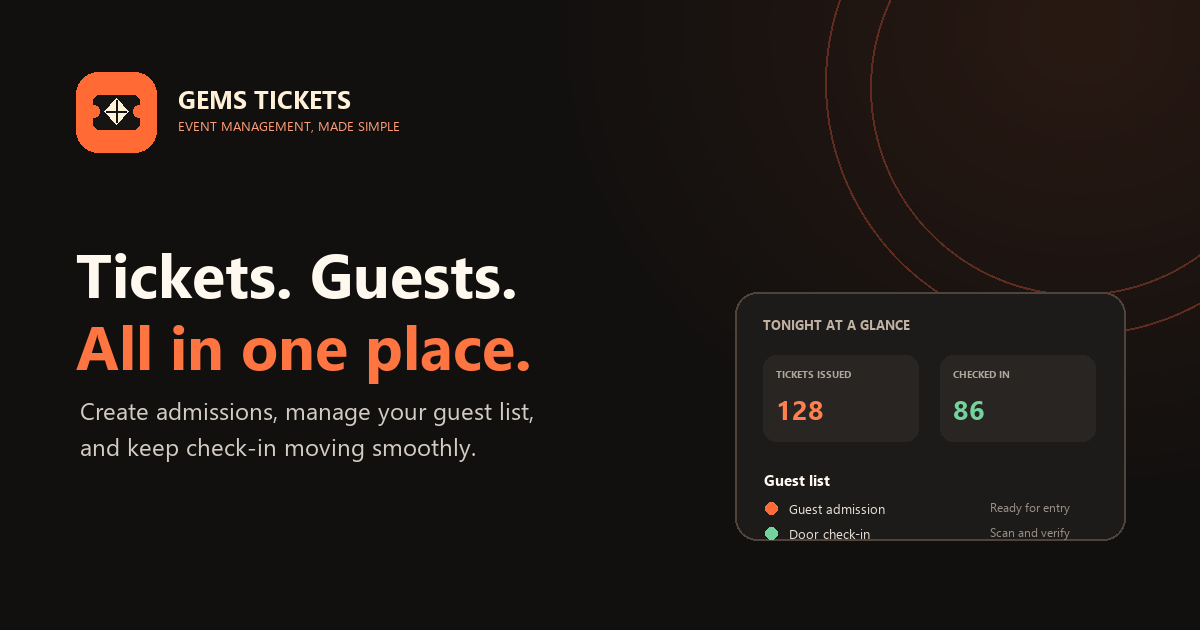
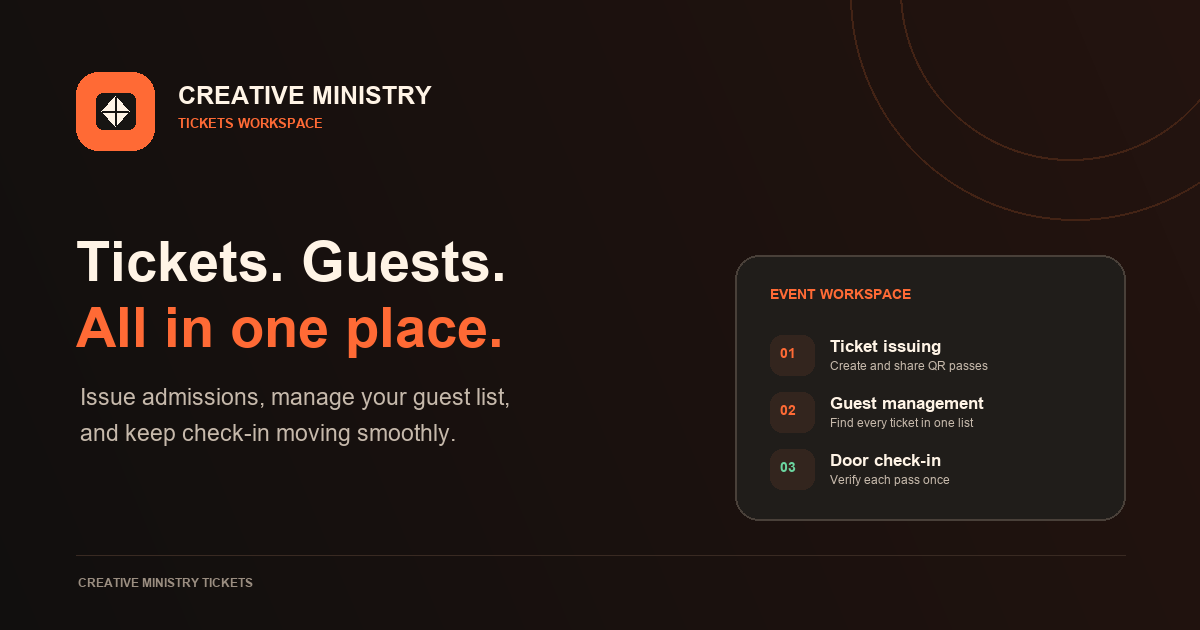
new look

diff --git a/src/components/checkin/CheckInPage.jsx b/src/components/checkin/CheckInPage.jsx
@@ -22,7 +22,7 @@ export default function CheckInPage({ tickets, result, setResult, checkIn }) {
   return <>
     <SectionTitle eyebrow="Front of house" title="Door check-in" description="Verify a guest by ticket ID or use the camera to scan their QR. Each ticket can only be admitted once." actions={<span className="inline-flex items-center gap-2 rounded-full border border-emerald-300/15 bg-emerald-300/[.05] px-3 py-2 text-[10px] text-emerald-200"><span className="h-1.5 w-1.5 animate-pulse rounded-full bg-emerald-300"/> Ready for guests</span>}/>
     <div className="grid gap-5 xl:grid-cols-[1.1fr_.9fr]">
-      <section className="overflow-hidden rounded-2xl border border-white/[.08] bg-panel"><div className="border-b border-white/[.06] px-5 py-4"><h2 className="text-sm font-bold text-white">Find a guest</h2><p className="mt-1 text-[10px] text-white/35">Type the printed ticket ID or scan its QR code.</p></div><div className="p-5 sm:p-7"><form onSubmit={submit}><label htmlFor="ticket-search" className="mb-2 block text-[10px] font-semibold text-white/50">Ticket ID or QR value</label><div className="flex gap-2"><div className="flex h-12 min-w-0 flex-1 items-center gap-3 rounded-xl border border-white/[.1] bg-black/20 px-3.5 focus-within:border-ember/60"><Search size={16} className="shrink-0 text-white/30"/><input id="ticket-search" value={scanValue} onChange={(event) => setScanValue(event.target.value)} placeholder="e.g. GEMS008" className="min-w-0 flex-1 bg-transparent font-mono text-sm text-white outline-none placeholder:font-sans placeholder:text-xs placeholder:text-white/25"/></div><button className="rounded-xl bg-ember px-5 text-xs font-bold text-ink hover:bg-[#ff7748]">Verify</button></div></form>
+      <section className="overflow-hidden rounded-2xl border border-white/[.08] bg-panel"><div className="border-b border-white/[.06] px-5 py-4"><h2 className="text-sm font-bold text-white">Find a guest</h2><p className="mt-1 text-[10px] text-white/35">Type the printed ticket ID or scan its QR code.</p></div><div className="p-5 sm:p-7"><form onSubmit={submit}><label htmlFor="ticket-search" className="mb-2 block text-[10px] font-semibold text-white/50">Ticket ID or QR value</label><div className="flex gap-2"><div className="flex h-12 min-w-0 flex-1 items-center gap-3 rounded-xl border border-white/[.1] bg-black/20 px-3.5 focus-within:border-ember/60"><Search size={16} className="shrink-0 text-white/30"/><input id="ticket-search" value={scanValue} onChange={(event) => setScanValue(event.target.value)} placeholder="e.g. KIF008" className="min-w-0 flex-1 bg-transparent font-mono text-sm text-white outline-none placeholder:font-sans placeholder:text-xs placeholder:text-white/25"/></div><button className="rounded-xl bg-ember px-5 text-xs font-bold text-ink hover:bg-[#ff7748]">Verify</button></div></form>
       <CameraScanner onDecoded={findTicket}/>
       {result ? <div className={`mt-5 rounded-xl border p-4 ${result.ok ? 'border-emerald-300/20 bg-emerald-300/[.06]' : 'border-red-300/20 bg-red-400/[.06]'}`}><div className="flex items-start gap-3">{result.ok ? <CheckCircle2 size={19} className="mt-0.5 text-emerald-300"/> : <X size={19} className="mt-0.5 text-red-300"/>}<div className="flex-1"><div className={`text-xs font-bold ${result.ok ? 'text-emerald-200' : 'text-red-200'}`}>{result.ok ? 'ACCESS GRANTED' : 'CHECK-IN FAILED'}</div><p className="mt-1 text-[11px] text-white/55">{result.ticket ? `${result.ticket.fullName} · ${result.ticket.ticketId} — ` : ''}{result.message}</p></div><button onClick={() => { setResult(null); setScanValue(''); }} aria-label="Dismiss result" className="text-white/35 hover:text-white"><X size={15}/></button></div></div> : <div className="mt-6 rounded-xl border border-dashed border-white/[.12] bg-black/10 px-4 py-8 text-center"><span className="mx-auto grid h-12 w-12 place-items-center rounded-2xl bg-white/[.045] text-ember"><TicketCheck size={22}/></span><div className="mt-3 text-xs font-semibold text-white/70">Ready for the next guest</div><p className="mx-auto mt-1.5 max-w-xs text-[10px] leading-relaxed text-white/35">An admission result will appear here after a scan.</p></div>}</div><div className="flex justify-between border-t border-white/[.06] px-5 py-3 text-[10px] text-white/35"><span>Checked in for this event</span><span className="font-mono text-emerald-300">{tickets.filter((ticket) => ticket.status === 'Checked in').length}</span></div></section>
       <div className="space-y-5"><section className="rounded-2xl border border-white/[.08] bg-panel p-5"><div className="flex items-center justify-between"><div><h2 className="text-sm font-bold text-white">Quick admit</h2><p className="mt-1 text-[10px] text-white/35">Select a guest to check them in.</p></div><span className="rounded-md bg-gold/[.1] px-2 py-1 text-[9px] font-bold text-gold">{tickets.filter((ticket) => ticket.status === 'Not checked in' && ticket.payment_status === 'confirmed').length} WAITING</span></div><div className="mt-4 space-y-2">{tickets.filter((ticket) => ticket.status === 'Not checked in' && ticket.payment_status === 'confirmed').slice(0, 5).map((ticket, index) => <div key={ticket.id} className="flex items-center gap-3 rounded-xl border border-white/[.05] px-3 py-2.5"><Avatar name={ticket.fullName} index={index}/><div className="min-w-0 flex-1"><div className="truncate text-[10px] font-semibold text-white/75">{ticket.fullName}</div><div className="mt-0.5 font-mono text-[9px] text-white/30">{ticket.ticketId}</div></div><button onClick={() => checkIn(ticket)} className="rounded-lg border border-white/[.09] px-2.5 py-1.5 text-[9px] font-semibold text-white/60 hover:border-emerald-300/30 hover:text-emerald-200">Admit</button></div>)}</div></section><div className="rounded-2xl border border-ember/15 bg-gradient-to-br from-ember/[.09] to-transparent p-5"><div className="flex items-center gap-2 text-ember"><ShieldCheck size={16}/><span className="text-[10px] font-bold uppercase tracking-[.14em]">One ticket · One entry</span></div><p className="mt-2 text-[11px] leading-relaxed text-white/45">A used ticket cannot be admitted again. If a guest needs help, verify their name with the event team.</p></div></div>
@@ -40,7 +40,7 @@ function CameraScanner({ onDecoded }) {
     let cancelled = false;
     (async () => {
       try {
-        scanner = new Html5Qrcode('gems-qr-reader');
+        scanner = new Html5Qrcode('creative-ministry-qr-reader');
         await scanner.start({ facingMode: 'environment' }, { fps: 10, qrbox: { width: 220, height: 180 } }, async (text) => {
           if (cancelled) return;
           cancelled = true;
@@ -56,5 +56,5 @@ function CameraScanner({ onDecoded }) {
     return () => { cancelled = true; if (scanner?.isScanning) scanner.stop().catch(() => {}); };
   }, [open, onDecoded]);
 
-  return <div className="mt-4"><button type="button" onClick={() => { setMessage(''); setOpen((value) => !value); }} className="inline-flex items-center gap-2 rounded-lg border border-white/[.08] px-3 py-2 text-[10px] font-semibold text-white/55 hover:border-white/20 hover:text-white"><span className="text-ember">▦</span>{open ? 'Close camera' : 'Open camera scanner'}</button>{message && <p className="mt-2 text-[10px] text-gold">{message}</p>}{open && <div id="gems-qr-reader" className="mt-3 max-w-sm overflow-hidden rounded-xl border border-white/10 bg-black/30 [&_button]:m-2 [&_button]:rounded-md [&_button]:bg-ember [&_button]:px-3 [&_button]:py-2 [&_button]:text-xs [&_select]:bg-[#191817] [&_select]:text-white"/>}</div>;
+  return <div className="mt-4"><button type="button" onClick={() => { setMessage(''); setOpen((value) => !value); }} className="inline-flex items-center gap-2 rounded-lg border border-white/[.08] px-3 py-2 text-[10px] font-semibold text-white/55 hover:border-white/20 hover:text-white"><span className="text-ember">▦</span>{open ? 'Close camera' : 'Open camera scanner'}</button>{message && <p className="mt-2 text-[10px] text-gold">{message}</p>}{open && <div id="creative-ministry-qr-reader" className="mt-3 max-w-sm overflow-hidden rounded-xl border border-white/10 bg-black/30 [&_button]:m-2 [&_button]:rounded-md [&_button]:bg-ember [&_button]:px-3 [&_button]:py-2 [&_button]:text-xs [&_select]:bg-[#191817] [&_select]:text-white"/>}</div>;
 }

diff --git a/src/App.jsx b/src/App.jsx
@@ -49,7 +49,7 @@ export default function App() {
   if (!supabaseConfigReady) return <SetupNotice message="Add VITE_SUPABASE_URL and VITE_SUPABASE_PUBLISHABLE_KEY to .env.local, then restart the dev server."/>;
   if (authLoading) return <LoadingScreen label="Connecting to your secure workspace…"/>;
   if (!session) return <AuthPage supabase={supabase}/>;
-  return <Workspace user={session.user} authError={authError} onSignOut={() => supabase.auth.signOut()}/>;
+  return <Workspace user={session.user} authError={authError} onSignOut={() => supabase.auth.signOut({ scope: 'local' })}/>;
 }
 
 function Workspace({ user, authError, onSignOut, preview = false }) {
@@ -80,7 +80,7 @@ function Workspace({ user, authError, onSignOut, preview = false }) {
     const csv = [columns, ...rows].map((row) => row.map((value) => '"' + String(value ?? '').replaceAll('"', '""') + '"').join(',')).join('\r\n');
     const link = document.createElement('a');
     link.href = URL.createObjectURL(new Blob([csv], { type: 'text/csv;charset=utf-8' }));
-    link.download = 'gems-guest-list.csv';
+    link.download = 'creative-ministry-guest-list.csv';
     link.click();
     window.setTimeout(() => URL.revokeObjectURL(link.href), 1000);
   };
@@ -99,7 +99,7 @@ function Workspace({ user, authError, onSignOut, preview = false }) {
           {page === 'tickets' && <GuestsPage event={event} tickets={tickets} loading={loading} onNew={() => setIssueOpen(true)} onTicket={openTicket} onExport={exportCsv} canManageTickets={role === 'owner' || role === 'manager'}/>}
           {page === 'checkin' && <CheckInPage tickets={tickets} result={scanResult} setResult={setScanResult} checkIn={checkIn}/>}
         </div>
-        <footer className="mx-auto flex max-w-[1440px] flex-col gap-2 border-t border-white/[.06] px-4 py-5 text-[10px] text-white/25 sm:flex-row sm:justify-between sm:px-8 lg:px-10"><span>GEMS TICKETS <span className="px-1">·</span> {preview ? "LOCAL PREVIEW · NOT SAVED" : "SECURE EVENT WORKSPACE"}</span><span>{event.name} · {event.venue}</span></footer>
+        <footer className="mx-auto flex max-w-[1440px] flex-col gap-2 border-t border-white/[.06] px-4 py-5 text-[10px] text-white/25 sm:flex-row sm:justify-between sm:px-8 lg:px-10"><span>CREATIVE MINISTRY TICKETS <span className="px-1">·</span> {preview ? "LOCAL PREVIEW · NOT SAVED" : "SECURE EVENT WORKSPACE"}</span><span>{event.name} · {event.venue}</span></footer>
       </main>
     </div>
     {issueOpen && (role === 'owner' || role === 'manager') && <IssueTicketModal event={event} onClose={() => setIssueOpen(false)} onCreate={createTicket} onCreated={async (ticket) => { setIssueOpen(false); setPage('tickets'); notify(preview ? 'Preview ticket created. This is not saved.' : 'Ticket issued and saved to Supabase'); await openTicket(ticket); }}/>}

diff --git a/src/components/layout/Topbar.jsx b/src/components/layout/Topbar.jsx
@@ -4,7 +4,7 @@ const pageNames = { overview: 'Overview', tickets: 'Tickets & guests', checkin: 
 
 export default function Topbar({ page, openMenu, onSignOut, email, preview }) {
   return <header className="sticky top-0 z-20 flex h-[72px] items-center justify-between border-b border-white/[.07] bg-[#11100f]/90 px-4 backdrop-blur-xl sm:px-8 lg:px-10">
-    <div className="flex items-center gap-3"><button onClick={openMenu} aria-label="Open navigation" className="rounded-lg p-2 text-white/50 hover:bg-white/[.06] lg:hidden"><Menu size={18}/></button><div className="hidden text-[11px] text-white/35 sm:block">GEMS Tickets <span className="px-1.5 text-white/20">/</span><span className="text-white/75">{pageNames[page]}</span></div><div className="text-[11px] text-white/75 sm:hidden">{pageNames[page]}</div></div>
+    <div className="flex items-center gap-3"><button onClick={openMenu} aria-label="Open navigation" className="rounded-lg p-2 text-white/50 hover:bg-white/[.06] lg:hidden"><Menu size={18}/></button><div className="hidden text-[11px] text-white/35 sm:block">Creative Ministry <span className="px-1.5 text-white/20">/</span><span className="text-white/75">{pageNames[page]}</span></div><div className="text-[11px] text-white/75 sm:hidden">{pageNames[page]}</div></div>
     <div className="flex items-center gap-3"><div className="hidden max-w-[220px] truncate text-[10px] text-white/40 sm:block">{email}</div><span className={`inline-flex items-center gap-2 rounded-full border px-3 py-1.5 text-[10px] ${preview ? "border-gold/20 bg-gold/[.05] text-gold" : "border-emerald-300/15 bg-emerald-300/[.05] text-emerald-200"}`}><span className={`h-1.5 w-1.5 rounded-full ${preview ? "bg-gold" : "bg-emerald-300"}`}/>{preview ? "Preview only" : "Supabase"}</span>{!preview && <button onClick={onSignOut} aria-label="Sign out" title="Sign out" className="rounded-xl border border-white/[.08] p-2 text-white/50 hover:bg-white/[.05] hover:text-white lg:hidden"><LogOut size={15}/></button>}</div>
   </header>;
 }

diff --git a/index.html b/index.html
@@ -4,11 +4,11 @@
     <meta charset="UTF-8" />
     <meta name="viewport" content="width=device-width, initial-scale=1.0" />
     <meta name="theme-color" content="#11100f" />
-    <meta name="description" content="Issue tickets, manage guests, and run event check-in with GEMS Tickets." />
-    <link rel="icon" type="image/svg+xml" href="/gems-tickets-mark.svg" />
+    <meta name="description" content="Issue tickets, manage guests, and run event check-in with Creative Ministry Tickets." />
+    <link rel="icon" type="image/svg+xml" href="/creative-ministry-tickets-mark.svg" />
     <meta property="og:type" content="website" />
-    <meta property="og:site_name" content="GEMS Tickets" />
-    <meta property="og:title" content="GEMS Tickets — Event Management" />
+    <meta property="og:site_name" content="Creative Ministry Tickets" />
+    <meta property="og:title" content="Creative Ministry Tickets — Event Management" />
     <meta property="og:description" content="Tickets, guests, and event check-in, all in one place." />
     <meta property="og:url" content="https://ticket-app-nu-six.vercel.app/" />
     <meta property="og:image" content="https://ticket-app-nu-six.vercel.app/social-preview.png" />
@@ -17,10 +17,10 @@
     <meta property="og:image:width" content="1200" />
     <meta property="og:image:height" content="630" />
     <meta name="twitter:card" content="summary_large_image" />
-    <meta name="twitter:title" content="GEMS Tickets — Event Management" />
+    <meta name="twitter:title" content="Creative Ministry Tickets — Event Management" />
     <meta name="twitter:description" content="Tickets, guests, and event check-in, all in one place." />
     <meta name="twitter:image" content="https://ticket-app-nu-six.vercel.app/social-preview.png" />
-    <title>GEMS Tickets — Event Management</title>
+    <title>Creative Ministry Tickets — Event Management</title>
   </head>
   <body>
     <div id="root"></div>

diff --git a/src/components/layout/Sidebar.jsx b/src/components/layout/Sidebar.jsx
@@ -14,8 +14,8 @@ export default function Sidebar({ page, setPage, tickets, event, role, email, pr
     <aside className={`${open ? 'translate-x-0' : '-translate-x-full'} fixed inset-y-0 left-0 z-40 flex w-[256px] flex-col border-r border-white/[.07] bg-[#141312] px-5 py-6 transition-transform duration-200 lg:sticky lg:top-0 lg:h-screen lg:translate-x-0`}>
       <div className="flex items-center justify-between px-1">
         <button onClick={() => { setPage('overview'); onClose(); }} className="flex items-center gap-3 text-left">
-          <img src="/gems-tickets-mark.svg" alt="" className="h-10 w-10 rounded-xl shadow-glow" />
-          <span><span className="block font-display text-sm font-extrabold tracking-[.12em]">GEMS TICKETS</span><span className="mt-0.5 block text-[9px] font-bold tracking-[.2em] text-white/40">EVENT WORKSPACE</span></span>
+          <img src="/creative-ministry-tickets-mark.svg" alt="" className="h-10 w-10 rounded-xl shadow-glow" />
+          <span><span className="block font-display text-sm font-extrabold tracking-[.12em]">CREATIVE MINISTRY</span><span className="mt-0.5 block text-[9px] font-bold tracking-[.2em] text-white/40">TICKETS WORKSPACE</span></span>
         </button>
         <button onClick={onClose} aria-label="Close navigation" className="text-white/50 lg:hidden"><X size={18}/></button>
       </div>

diff --git a/src/components/auth/AuthPage.jsx b/src/components/auth/AuthPage.jsx
@@ -41,8 +41,8 @@ export default function AuthPage({ supabase }) {
     <div className="grain pointer-events-none absolute inset-0 opacity-[.06]" />
     <section className="relative w-full max-w-[420px] rounded-[26px] border border-white/[.09] bg-[#191817]/95 p-6 shadow-2xl sm:p-8">
       <div className="flex items-center gap-3">
-        <img src="/gems-tickets-mark.svg" alt="" className="h-11 w-11 rounded-xl" />
-        <div><div className="font-display text-sm font-extrabold tracking-[.12em]">GEMS TICKETS</div><div className="mt-1 text-[9px] font-bold tracking-[.2em] text-white/40">EVENT WORKSPACE</div></div>
+        <img src="/creative-ministry-tickets-mark.svg" alt="" className="h-11 w-11 rounded-xl" />
+        <div><div className="font-display text-sm font-extrabold tracking-[.12em]">CREATIVE MINISTRY</div><div className="mt-1 text-[9px] font-bold tracking-[.2em] text-white/40">TICKETS WORKSPACE</div></div>
       </div>
       <div className="mt-8"><h1 className="font-display text-2xl font-extrabold text-white">Sign in</h1><p className="mt-2 text-xs leading-relaxed text-white/45">Use your organizer account to manage tickets and check in guests.</p></div>
       <form onSubmit={signIn} className="mt-6 space-y-4">

diff --git a/src/hooks/useTickets.js b/src/hooks/useTickets.js
@@ -70,7 +70,7 @@ export function useTickets(user, notify, setScanResult, preview = false) {
     if (duplicateReference) throw new Error('That M-Pesa reference is already attached to a ticket. Check the code and try again.');
     if (preview) {
       const serial = tickets.length + 1;
-      const ticket = { id: crypto.randomUUID(), ticketId: 'GEMS' + String(serial).padStart(3, '0'), token: crypto.randomUUID(), fullName: fullName.trim(), phone: phone.trim(), mpesaCode: mpesaCode.trim().toUpperCase(), ticketType: 'General admission', pricePaid: event.price, payment_status: 'confirmed', status: 'Not checked in', created_at: new Date().toISOString() };
+      const ticket = { id: crypto.randomUUID(), ticketId: 'KIF' + String(serial).padStart(3, '0'), token: crypto.randomUUID(), fullName: fullName.trim(), phone: phone.trim(), mpesaCode: mpesaCode.trim().toUpperCase(), ticketType: 'General admission', pricePaid: event.price, payment_status: 'confirmed', status: 'Not checked in', created_at: new Date().toISOString() };
       setTickets((current) => [ticket, ...current]);
       return ticket;
     }

diff --git a/README.md b/README.md
@@ -1,6 +1,6 @@
-# GEMS Tickets
+# Creative Ministry Tickets
 
-GEMS Tickets is the event operations workspace for issuing admission tickets, managing guests, and checking tickets in. Production uses Supabase Auth and row-level security for access to live guest records.
+Creative Ministry Tickets is the event operations workspace for issuing admission tickets, managing guests, and checking tickets in. Production uses Supabase Auth and row-level security for access to live guest records.
 
 ## Local preview
 
